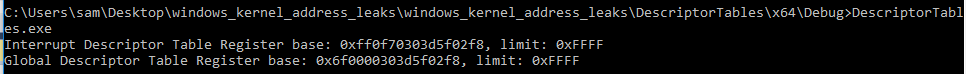
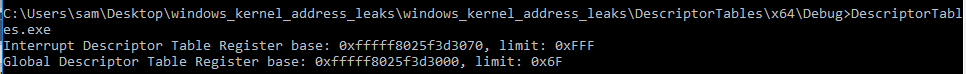
brain fart...

Changed region(s): [[0.0, 0.0, 1.0, 1.0], [0.0, 0.5135, 0.6211, 1.0]]

diff --git a/DescriptorTables/DescriptorTables/DescriptorTables.cpp b/DescriptorTables/DescriptorTables/DescriptorTables.cpp
@@ -12,28 +12,28 @@ int main()
 #ifdef _WIN64
 	unsigned char idtr[10] = { 0 };
 	__sidt(idtr);
-	unsigned long long idtrBase = (unsigned long long)idtr[0] << 56 |
-		(unsigned long long)idtr[1] << 48 |
-		(unsigned long long)idtr[2] << 40 |
-		(unsigned long long)idtr[3] << 32 |
-		(unsigned long long)idtr[4] << 24 |
-		(unsigned long long)idtr[5] << 16 |
-		(unsigned long long)idtr[6] << 8 |
-		(unsigned long long)idtr[7];
-	unsigned short idtrLimit = (unsigned int)idtr[8] << 8 |
-		(unsigned int)idtr[9];
+	unsigned long long idtrBase = (unsigned long long)idtr[9] << 56 |
+		(unsigned long long)idtr[8] << 48 |
+		(unsigned long long)idtr[7] << 40 |
+		(unsigned long long)idtr[6] << 32 |
+		(unsigned long long)idtr[5] << 24 |
+		(unsigned long long)idtr[4] << 16 |
+		(unsigned long long)idtr[3] << 8 |
+		(unsigned long long)idtr[2];
+	unsigned short idtrLimit = (unsigned int)idtr[1] << 8 |
+		(unsigned int)idtr[0];
 	printf("Interrupt Descriptor Table Register base: 0x%llx, limit: 0x%X\r\n", idtrBase, idtrLimit);
 #else
 	unsigned char idtr[6] = { 0 };
 	__asm {
 		sidt idtr;
 	}
-	unsigned int idtrBase = (unsigned int)idtr[0] << 24 |
-		(unsigned int)idtr[1] << 16 |
-		(unsigned int)idtr[2] << 8 |
-		(unsigned int)idtr[3];
-	unsigned short idtrLimit = (unsigned int)idtr[4] << 8 |
-		(unsigned int)idtr[5];
+	unsigned int idtrBase = (unsigned int)idtr[5] << 24 |
+		(unsigned int)idtr[4] << 16 |
+		(unsigned int)idtr[3] << 8 |
+		(unsigned int)idtr[2];
+	unsigned short idtrLimit = (unsigned int)idtr[1] << 8 |
+		(unsigned int)idtr[0];
 	printf("Interrupt Descriptor Table Register base: 0x%X, limit: 0x%X\r\n", idtrBase, idtrLimit);
 #endif
 
@@ -42,28 +42,28 @@ int main()
 #ifdef _WIN64
 	unsigned char gdtr[10] = { 0 };
 	_sgdt(gdtr);
-	unsigned long long gdtrBase = (unsigned long long)gdtr[0] << 56 |
-		(unsigned long long)gdtr[1] << 48 |
-		(unsigned long long)gdtr[2] << 40 |
-		(unsigned long long)gdtr[3] << 32 |
-		(unsigned long long)gdtr[4] << 24 |
-		(unsigned long long)gdtr[5] << 16 |
-		(unsigned long long)gdtr[6] << 8 |
-		(unsigned long long)gdtr[7];
-	unsigned short gdtrLimit = (unsigned int)gdtr[8] << 8 |
-		(unsigned int)gdtr[9];
+	unsigned long long gdtrBase = (unsigned long long)gdtr[9] << 56 |
+		(unsigned long long)gdtr[8] << 48 |
+		(unsigned long long)gdtr[7] << 40 |
+		(unsigned long long)gdtr[6] << 32 |
+		(unsigned long long)gdtr[5] << 24 |
+		(unsigned long long)gdtr[4] << 16 |
+		(unsigned long long)gdtr[3] << 8 |
+		(unsigned long long)gdtr[2];
+	unsigned short gdtrLimit = (unsigned int)gdtr[1] << 8 |
+		(unsigned int)gdtr[0];
 	printf("Global Descriptor Table Register base: 0x%llx, limit: 0x%X\r\n", gdtrBase, gdtrLimit);
 #else
 	unsigned char gdtr[6] = { 0 };
 	__asm {
 		sgdt gdtr;
 	}
-	unsigned int gdtrBase = (unsigned int)gdtr[0] << 24 |
-		(unsigned int)gdtr[1] << 16 |
-		(unsigned int)gdtr[2] << 8 |
-		(unsigned int)gdtr[3];
-	unsigned short gdtrLimit = (unsigned int)gdtr[4] << 8 |
-		(unsigned int)gdtr[5];
+	unsigned int gdtrBase = (unsigned int)gdtr[5] << 24 |
+		(unsigned int)gdtr[4] << 16 |
+		(unsigned int)gdtr[3] << 8 |
+		(unsigned int)gdtr[2];
+	unsigned short gdtrLimit = (unsigned int)gdtr[1] << 8 |
+		(unsigned int)gdtr[0];
 	printf("Global Descriptor Table Register base: 0x%X, limit: 0x%X\r\n", gdtrBase, gdtrLimit);
 #endif
 
